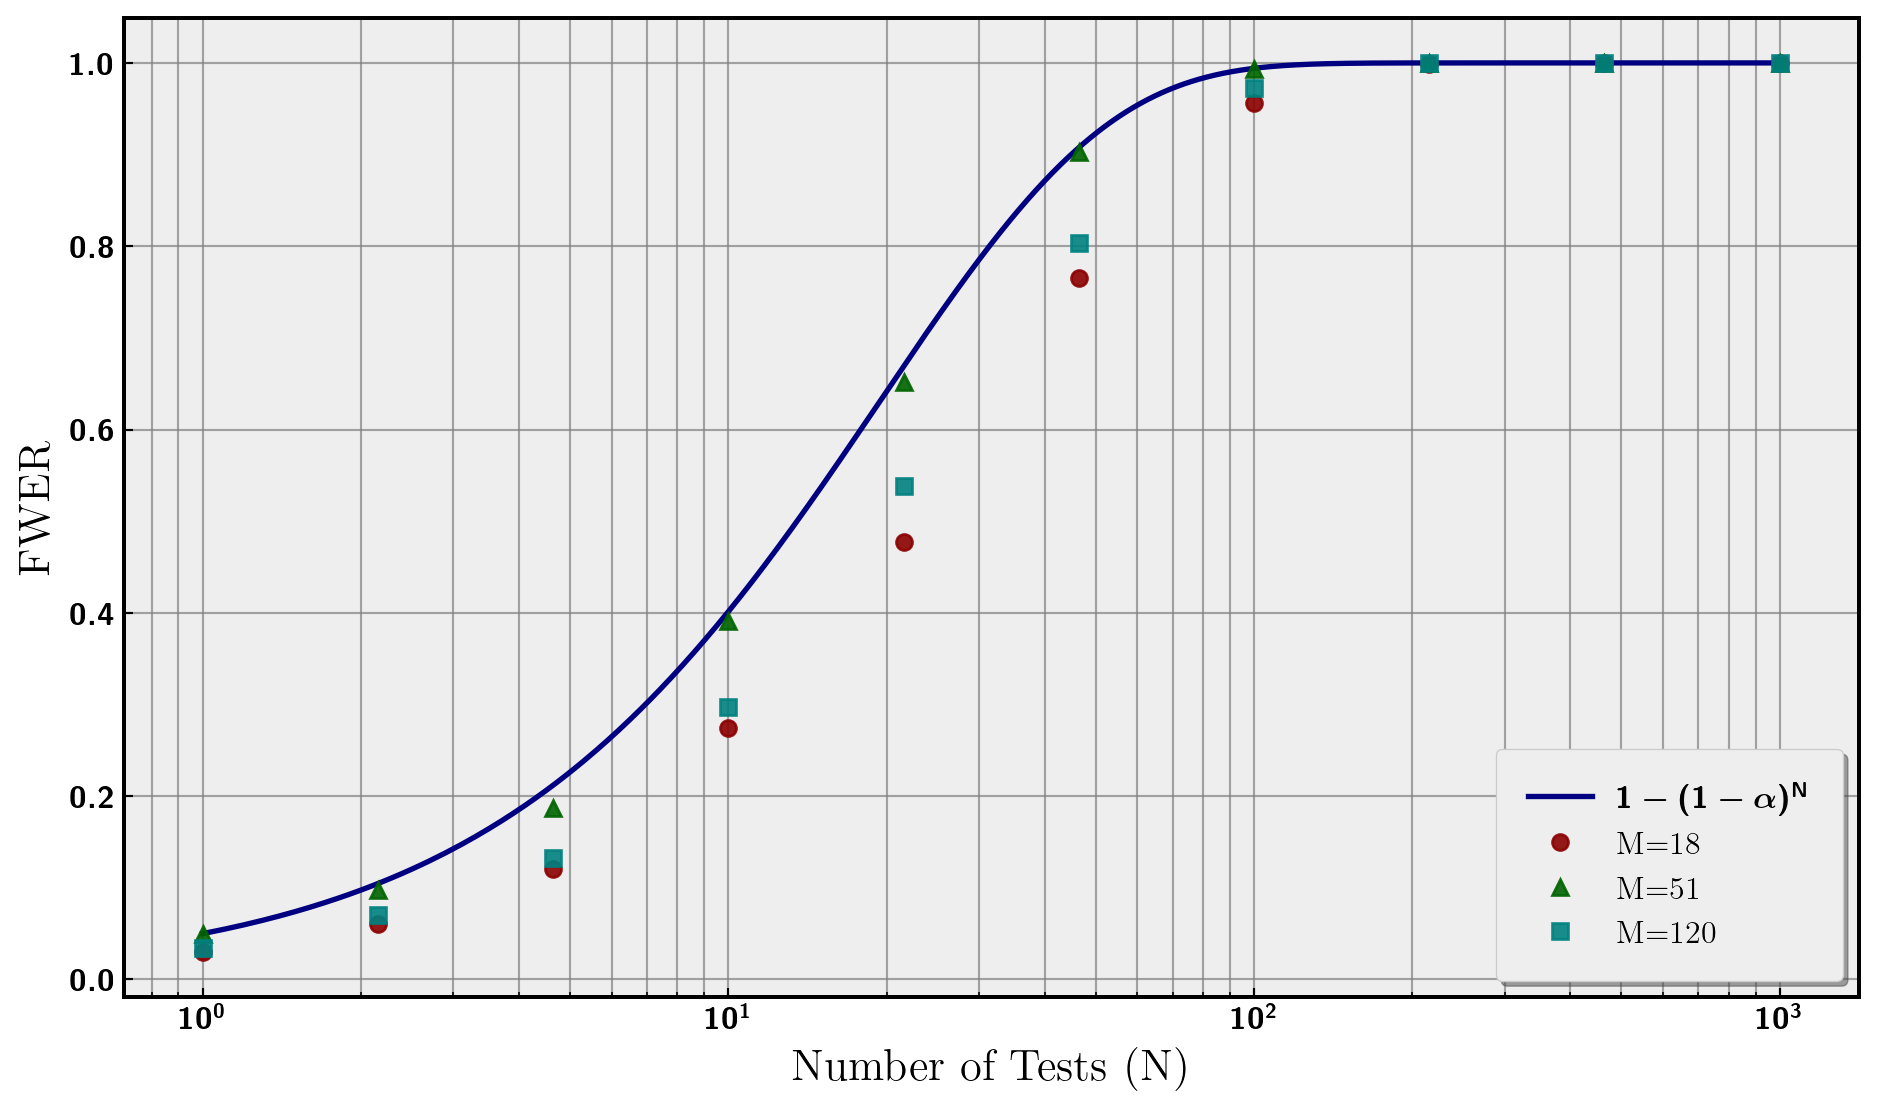
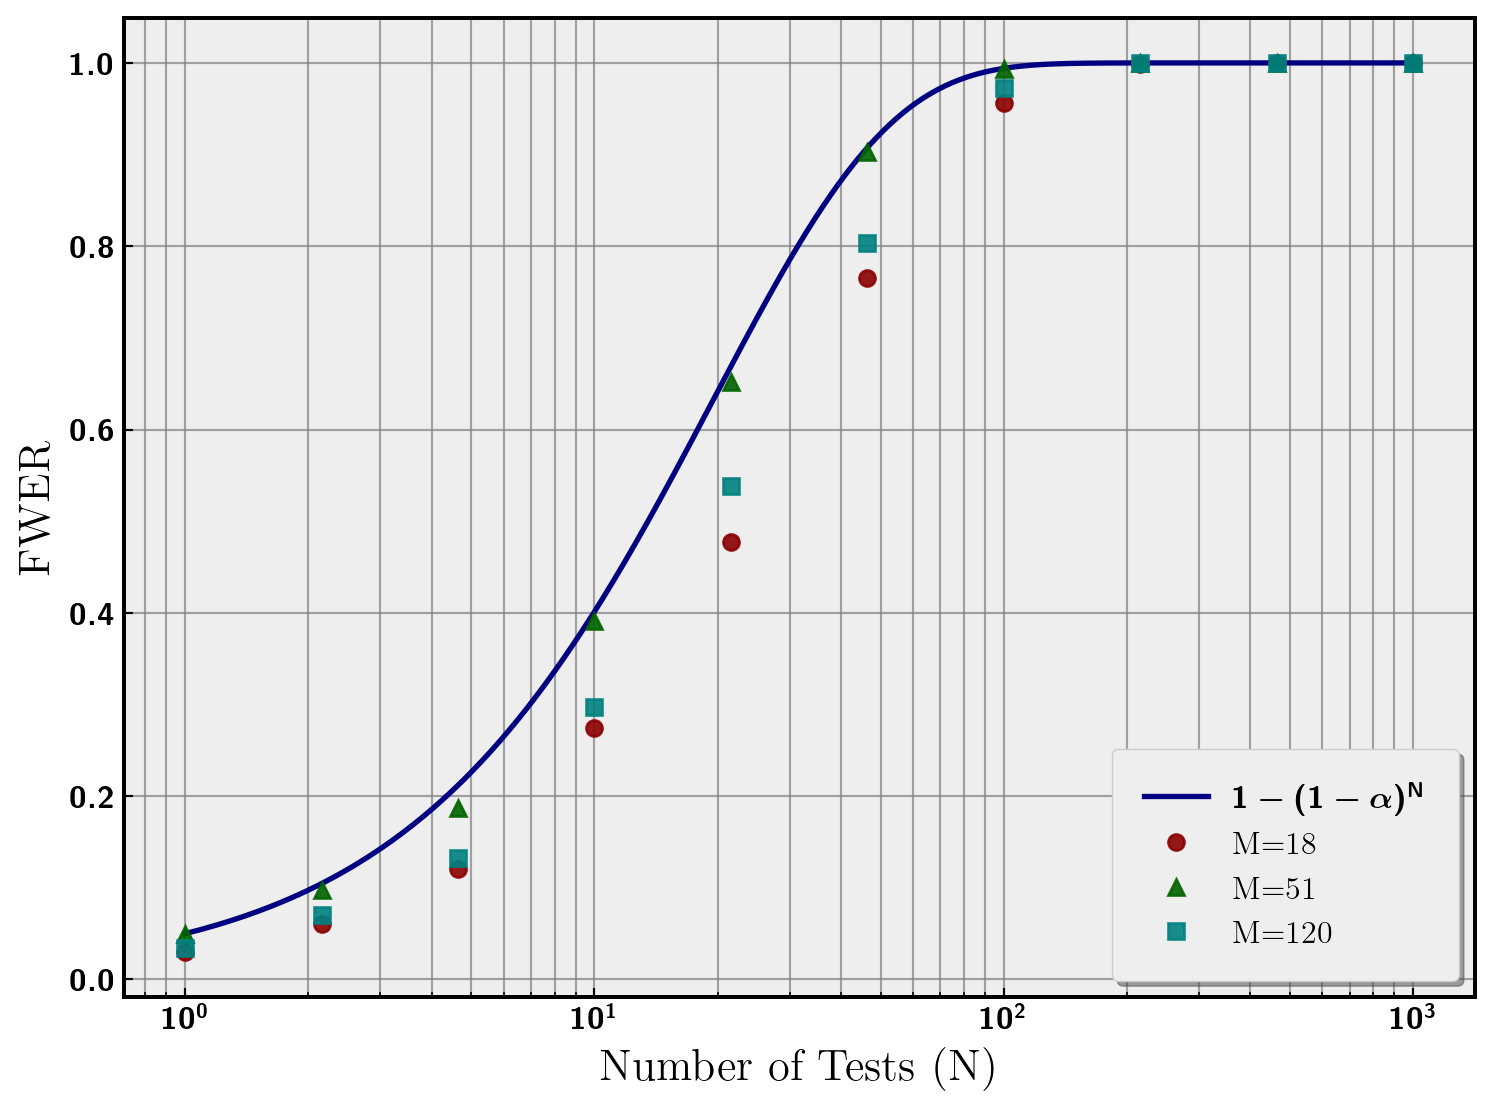
make fig less wided

diff --git a/mult_testing/README.html b/mult_testing/README.html
@@ -166,7 +166,7 @@ window.Quarto = {
 <li><span class="math inline">NN = 10000</span> - number of repetitions of each analysis</li>
 </ul>
 <p>So, the total number of coins flipped in each analysis is <span class="math inline">M \cdot N \cdot NN</span>. We choose <span class="math inline">M = \{18, 51, 120\}</span>, and <span class="math inline">N \in [1, 1000]</span> for the following plots.</p>
-<div id="10b7d2e9" class="cell" data-execution_count="2">
+<div id="6b32ba5d" class="cell" data-execution_count="1">
 <details class="code-fold">
 <summary>Code</summary>
 <div class="sourceCode cell-code" id="cb1"><pre class="sourceCode python code-with-copy"><code class="sourceCode python"><span id="cb1-1"><a href="#cb1-1" aria-hidden="true" tabindex="-1"></a><span class="im">import</span> numpy <span class="im">as</span> np</span>
@@ -197,10 +197,10 @@ window.Quarto = {
 </details>
 </div>
 <p>We plot the results of our analyses in <a href="#fig-fwer" class="quarto-xref">Figure&nbsp;1</a>. The false positive rate (FWER) increases toward <span class="math inline">1</span> with <span class="math inline">N</span>. The three choices of <span class="math inline">M</span> are plotted along with the analytical curve. There is a discrepancy between the analytical curve and the numerical simulations that is smallest for <span class="math inline">M = 51</span>. We will return to this in the next section. The relevant feature is the monotonic increase in Type I Error.</p>
-<div id="cell-fig-fwer" class="cell" data-execution_count="3">
+<div id="cell-fig-fwer" class="cell" data-execution_count="2">
 <details class="code-fold">
 <summary>Code</summary>
-<div class="sourceCode cell-code" id="cb2"><pre class="sourceCode python code-with-copy"><code class="sourceCode python"><span id="cb2-1"><a href="#cb2-1" aria-hidden="true" tabindex="-1"></a>fig, ax <span class="op">=</span> plt.subplots(figsize<span class="op">=</span>(<span class="dv">10</span>, <span class="dv">6</span>))</span>
+<div class="sourceCode cell-code" id="cb2"><pre class="sourceCode python code-with-copy"><code class="sourceCode python"><span id="cb2-1"><a href="#cb2-1" aria-hidden="true" tabindex="-1"></a>fig, ax <span class="op">=</span> plt.subplots(figsize<span class="op">=</span>(<span class="dv">8</span>, <span class="dv">6</span>))</span>
 <span id="cb2-2"><a href="#cb2-2" aria-hidden="true" tabindex="-1"></a>ax.plot(fwer_bound_N, fwer_bound, label<span class="op">=</span><span class="vs">r'$1 - (1 - \alpha)^N$'</span>, color<span class="op">=</span><span class="st">'navy'</span>)</span>
 <span id="cb2-3"><a href="#cb2-3" aria-hidden="true" tabindex="-1"></a>ax.plot(fwer_N, fwer_1, <span class="st">'o'</span>,label<span class="op">=</span><span class="ss">f'M=</span><span class="sc">{</span>M_list[<span class="dv">0</span>]<span class="sc">}</span><span class="ss">'</span>, <span class="op">\</span></span>
 <span id="cb2-4"><a href="#cb2-4" aria-hidden="true" tabindex="-1"></a>    color<span class="op">=</span><span class="st">'darkred'</span>, markersize<span class="op">=</span><span class="dv">6</span>, alpha<span class="op">=</span><span class="fl">0.9</span>)</span>
@@ -227,7 +227,7 @@ window.Quarto = {
 <div id="fig-fwer" class="quarto-float quarto-figure quarto-figure-center anchored">
 <figure class="quarto-float quarto-float-fig figure">
 <div aria-describedby="fig-fwer-caption-0ceaefa1-69ba-4598-a22c-09a6ac19f8ca">
-<img src="README_files/figure-html/fig-fwer-output-1.png" width="939" height="555" class="figure-img">
+<img src="README_files/figure-html/fig-fwer-output-1.png" width="747" height="555" class="figure-img">
 </div>
 <figcaption class="quarto-float-caption-bottom quarto-float-caption quarto-float-fig" id="fig-fwer-caption-0ceaefa1-69ba-4598-a22c-09a6ac19f8ca">
 Figure&nbsp;1: Uncorrected FWER
@@ -240,12 +240,12 @@ Figure&nbsp;1: Uncorrected FWER
 <section id="discrepancy-in-fwer" class="level2">
 <h2 class="anchored" data-anchor-id="discrepancy-in-fwer">Discrepancy in FWER</h2>
 <p>Our <span class="math inline">\alpha</span> significance was chosen to be <span class="math inline">0.05</span> for this analysis. However, when we are dealing with coin flips we are using discrete data and not continuous. This has consequences for what constitutes a significant result for flipping <span class="math inline">M</span> coins. For a significant result we need the p-value of the number of heads (or tails hence two-tail test) to be the largest number less than <span class="math inline">\alpha = 0.05</span>. We call this number of heads the critical number of heads. However, due to discrete data, the critical p-value can vary greatly rather than being exactly <span class="math inline">0.05</span>. One would expect that as the number of coin flips increases, the critical p-value should approach <span class="math inline">0.05</span>. The intuition being as we increase the number of coins flipped we are filling in the discrete data set and approaching continuum. We plot the critical p-value for increasing <span class="math inline">M</span> coin flips in <a href="#fig-crit" class="quarto-xref">Figure&nbsp;2</a>. Additionally, we also plot the three <span class="math inline">M</span> values from the previous simulation and they show the same hierarchy as seen in <a href="#fig-fwer" class="quarto-xref">Figure&nbsp;1</a>. The closer the critical p-value is to <span class="math inline">0.05</span>, the closer the FWER is to <span class="math inline">1 - (1 - \alpha)^N</span>.</p>
-<div id="cell-fig-crit" class="cell" data-execution_count="4">
+<div id="cell-fig-crit" class="cell" data-execution_count="3">
 <details class="code-fold">
 <summary>Code</summary>
 <div class="sourceCode cell-code" id="cb3"><pre class="sourceCode python code-with-copy"><code class="sourceCode python"><span id="cb3-1"><a href="#cb3-1" aria-hidden="true" tabindex="-1"></a>colors <span class="op">=</span> [<span class="st">'red'</span>, <span class="st">'green'</span>, <span class="st">'cyan'</span>]</span>
 <span id="cb3-2"><a href="#cb3-2" aria-hidden="true" tabindex="-1"></a>labels <span class="op">=</span> [<span class="ss">f'M=</span><span class="sc">{</span>M_list[<span class="dv">0</span>]<span class="sc">}</span><span class="ss">'</span>, <span class="ss">f'M=</span><span class="sc">{</span>M_list[<span class="dv">1</span>]<span class="sc">}</span><span class="ss">'</span>, <span class="ss">f'M=</span><span class="sc">{</span>M_list[<span class="dv">2</span>]<span class="sc">}</span><span class="ss">'</span>]</span>
-<span id="cb3-3"><a href="#cb3-3" aria-hidden="true" tabindex="-1"></a>fig, ax <span class="op">=</span> plt.subplots(figsize<span class="op">=</span>(<span class="dv">10</span>, <span class="dv">6</span>))</span>
+<span id="cb3-3"><a href="#cb3-3" aria-hidden="true" tabindex="-1"></a>fig, ax <span class="op">=</span> plt.subplots(figsize<span class="op">=</span>(<span class="dv">8</span>, <span class="dv">6</span>))</span>
 <span id="cb3-4"><a href="#cb3-4" aria-hidden="true" tabindex="-1"></a>ax.plot(Ms, pvs, color<span class="op">=</span><span class="st">'navy'</span>, label<span class="op">=</span><span class="st">'Critical p-Value'</span>, alpha<span class="op">=</span><span class="fl">0.8</span>)</span>
 <span id="cb3-5"><a href="#cb3-5" aria-hidden="true" tabindex="-1"></a>ax.axhline(<span class="fl">0.05</span>, color<span class="op">=</span><span class="st">'black'</span>, label<span class="op">=</span><span class="ss">f'$</span><span class="ch">\\</span><span class="ss">alpha = 0.05$'</span>)</span>
 <span id="cb3-6"><a href="#cb3-6" aria-hidden="true" tabindex="-1"></a>plt.plot([Ms[index[<span class="dv">0</span>]]], [pvs[index[<span class="dv">0</span>]]], <span class="st">'o'</span>, label<span class="op">=</span>labels[<span class="dv">0</span>], <span class="op">\</span></span>
@@ -271,7 +271,7 @@ Figure&nbsp;1: Uncorrected FWER
 <div id="fig-crit" class="quarto-float quarto-figure quarto-figure-center anchored">
 <figure class="quarto-float quarto-float-fig figure">
 <div aria-describedby="fig-crit-caption-0ceaefa1-69ba-4598-a22c-09a6ac19f8ca">
-<img src="README_files/figure-html/fig-crit-output-1.png" width="939" height="555" class="figure-img">
+<img src="README_files/figure-html/fig-crit-output-1.png" width="747" height="555" class="figure-img">
 </div>
 <figcaption class="quarto-float-caption-bottom quarto-float-caption quarto-float-fig" id="fig-crit-caption-0ceaefa1-69ba-4598-a22c-09a6ac19f8ca">
 Figure&nbsp;2: Critical p-value
@@ -288,10 +288,10 @@ Figure&nbsp;2: Critical p-value
 1 - (1 - \alpha)^N \rightarrow 1 - (1 - N\cdot\alpha + \mathcal{O}(\alpha^2)) = N\cdot\alpha + \mathcal{O}(\alpha^2)
 </span></p>
 <p>Given this expansion, a natural redefinition of <span class="math inline">\alpha</span> is <span class="math inline">\alpha = \alpha / N</span> such that the first term in the expansion is our new <span class="math inline">\alpha = 0.05</span>. This redefinition bounds the FWER to <span class="math inline">0.05</span> rather than asymptoting to <span class="math inline">1</span>. Now the entire analysis has a significance of <span class="math inline">0.05</span>, while each individual test has a smaller significance scaled by the number of tests. Now, we redo the analysis with our new significance to confirm that FWER is around or less than <span class="math inline">0.05</span>. This can be seen in <a href="#fig-fwer-bon" class="quarto-xref">Figure&nbsp;3</a>. Notice that there is no clear hierarchy between the three choices of <span class="math inline">M</span>, this can be explained by <a href="#fig-crit" class="quarto-xref">Figure&nbsp;2</a> again, where this time because <span class="math inline">\alpha</span> depends on <span class="math inline">N</span>, the critical p-values will vary with <span class="math inline">N</span> and thus the hierarchy will vary.</p>
-<div id="cell-fig-fwer-bon" class="cell" data-execution_count="5">
+<div id="cell-fig-fwer-bon" class="cell" data-execution_count="4">
 <details class="code-fold">
 <summary>Code</summary>
-<div class="sourceCode cell-code" id="cb4"><pre class="sourceCode python code-with-copy"><code class="sourceCode python"><span id="cb4-1"><a href="#cb4-1" aria-hidden="true" tabindex="-1"></a>fig, ax <span class="op">=</span> plt.subplots(figsize<span class="op">=</span>(<span class="dv">10</span>, <span class="dv">6</span>))</span>
+<div class="sourceCode cell-code" id="cb4"><pre class="sourceCode python code-with-copy"><code class="sourceCode python"><span id="cb4-1"><a href="#cb4-1" aria-hidden="true" tabindex="-1"></a>fig, ax <span class="op">=</span> plt.subplots(figsize<span class="op">=</span>(<span class="dv">8</span>, <span class="dv">6</span>))</span>
 <span id="cb4-2"><a href="#cb4-2" aria-hidden="true" tabindex="-1"></a></span>
 <span id="cb4-3"><a href="#cb4-3" aria-hidden="true" tabindex="-1"></a>ax.plot(fwer_bound_N, fwer_bound_b, label<span class="op">=</span><span class="vs">r'$1 - (1 - \alpha/N)^N$'</span>, <span class="op">\</span></span>
 <span id="cb4-4"><a href="#cb4-4" aria-hidden="true" tabindex="-1"></a>    color<span class="op">=</span><span class="st">'navy'</span>, linewidth<span class="op">=</span><span class="dv">2</span>)</span>
@@ -320,7 +320,7 @@ Figure&nbsp;2: Critical p-value
 <div id="fig-fwer-bon" class="quarto-float quarto-figure quarto-figure-center anchored">
 <figure class="quarto-float quarto-float-fig figure">
 <div aria-describedby="fig-fwer-bon-caption-0ceaefa1-69ba-4598-a22c-09a6ac19f8ca">
-<img src="README_files/figure-html/fig-fwer-bon-output-1.png" width="939" height="555" class="figure-img">
+<img src="README_files/figure-html/fig-fwer-bon-output-1.png" width="747" height="555" class="figure-img">
 </div>
 <figcaption class="quarto-float-caption-bottom quarto-float-caption quarto-float-fig" id="fig-fwer-bon-caption-0ceaefa1-69ba-4598-a22c-09a6ac19f8ca">
 Figure&nbsp;3: Bonferroni Corrected FWER
